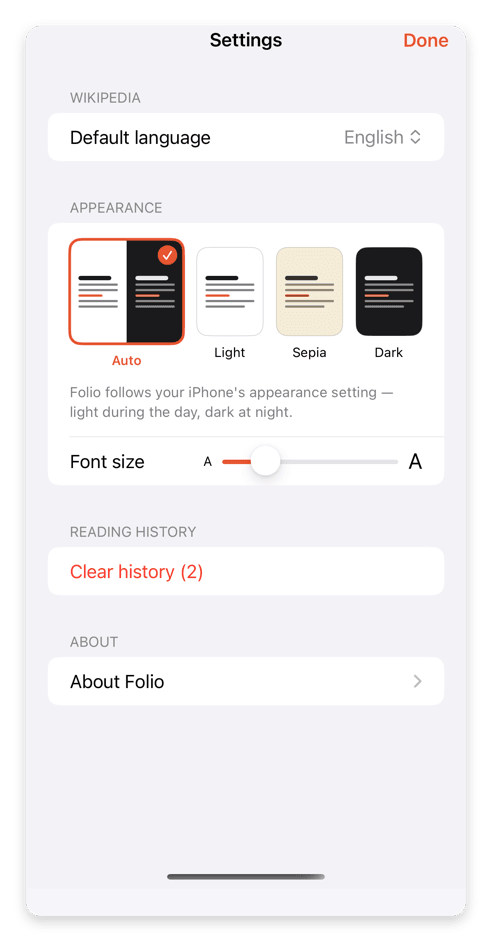
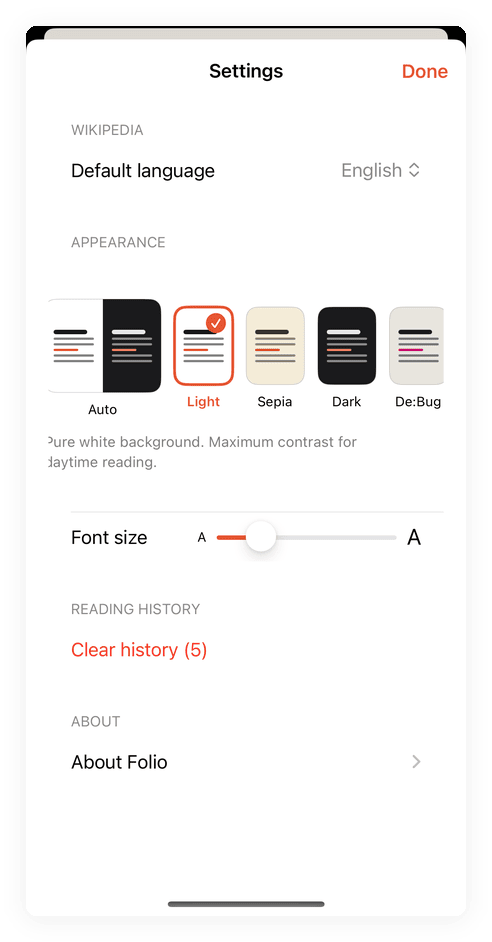
README: retake the screenshots and correct what changed
Every shot predated the font fix, so the reader picture showed New
York while the Typography section described EB Garamond. All five are
retaken in the shipping build, and De:Bug gets one of its own since
it swaps the prose face, not just the palette.

iPad is now a decision rather than a gap: it is out of the device
family until the layout work is done, so say that instead of listing
it as something missing.

diff --git a/README.md b/README.md
@@ -18,6 +18,12 @@ personal recreation of the parts I used every day. It is an homage, not a replac
 
 <p align="center"><sub>Today, Nearby, Settings</sub></p>
 
+<p align="center">
+  <img src="docs/screenshots/debug.png" width="424" alt="The same reader in the De:Bug theme: newsprint ground, magenta spot colour, prose set in Besley">
+</p>
+
+<p align="center"><sub>The De:Bug theme, which swaps the prose face as well as the palette</sub></p>
+
 ## What it does
 
 - Today: Wikipedia's featured article, most-read, and news as a photo grid with
@@ -45,7 +51,9 @@ each Today tile darkens its image only as much as that image's measured
 brightness requires. The reader sets 18px at 1.52 line height, sized by
 x-height rather than by the nominal number, with the measure capped at 26rem,
 which holds about 63 characters at any reader size. Prose uses old-style
-figures; tables and infoboxes keep lining tabular figures so columns align. The
+figures; tables and infoboxes keep lining tabular figures so columns align. A
+costume theme carries its own face and its own measurements, because size is
+chosen by x-height and not every face agrees about what a pixel is worth. The
 display title scales independently and stops at 120%, while body text keeps
 the full setting range. Folio restores each article's document language
 before layout and applies locale-aware punctuation, so English and German
@@ -75,9 +83,11 @@ over staged changes, commit messages, and outgoing pushes.
 ## Status
 
 Alpha. I use it daily and fix whatever annoys me, roughly in that order.
-Known gaps: thin test coverage, only English and German Wikipedia, iPad launches but
-has had no attention, and offline reading covers only what you have already
-opened. Issues and pull requests are welcome. I can't promise a roadmap.
+iPhone only, deliberately: iPad would need layout work I have not done, so it
+is out of the device family rather than shipping untuned. Known gaps: thin
+test coverage, only English and German Wikipedia, and offline reading covers
+only what you have already opened. Issues and pull requests are welcome. I
+can't promise a roadmap.
 
 ## Credits
 
